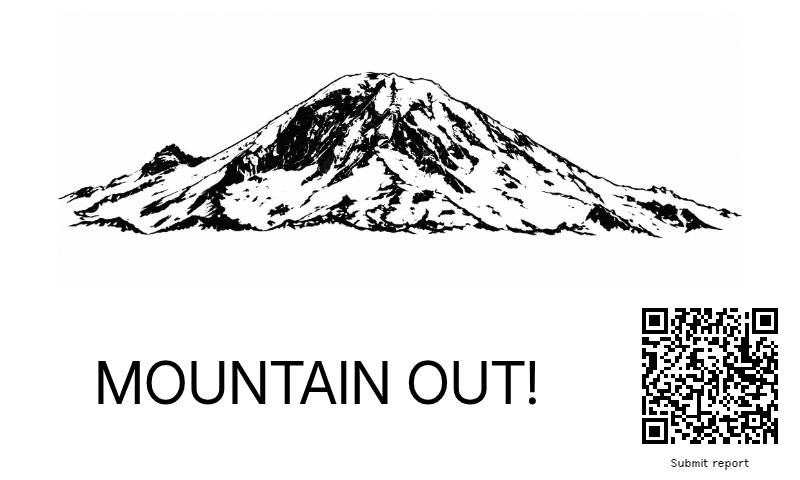
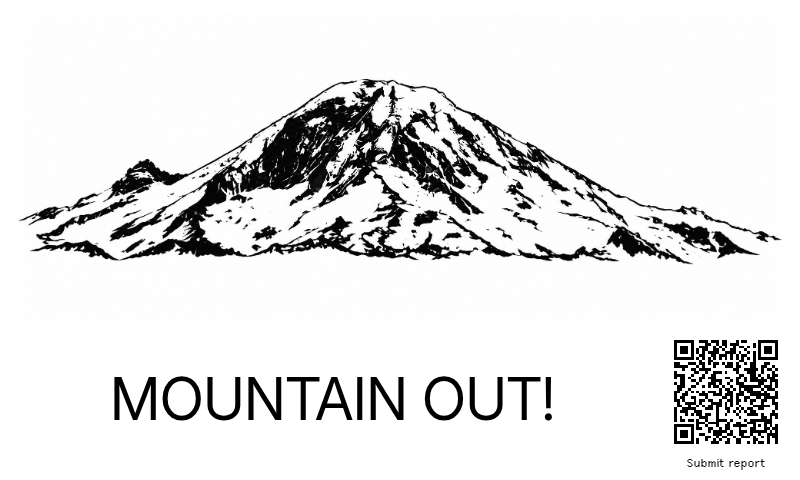
Reduce full-screen QR to approximately one inch

Changed region(s): [[0.0312, 0.125, 0.9688, 0.5625], [0.125, 0.75, 0.6875, 0.875], [0.7812, 0.625, 1.0, 1.0]]

diff --git a/README.md b/README.md
@@ -281,3 +281,8 @@ content bounds and bottom-right anchoring.
 Create a TRMNL import ZIP with `.venv/bin/python tools/package_plugin.py`.
 Use `--service-url https://YOUR-HOST --enable-feedback` to prefill an installation;
 the standard source settings still leave the QR opt-in disabled by default.
+
+The full-screen QR uses the native `w--32` width token (128 layout pixels,
+including its quiet zone), approximately one inch on the original 7.5-inch TRMNL.
+It no longer grows as a fraction of screen width. Physical size on other devices
+follows their native pixel ratio; the Submit report label remains below the square.
